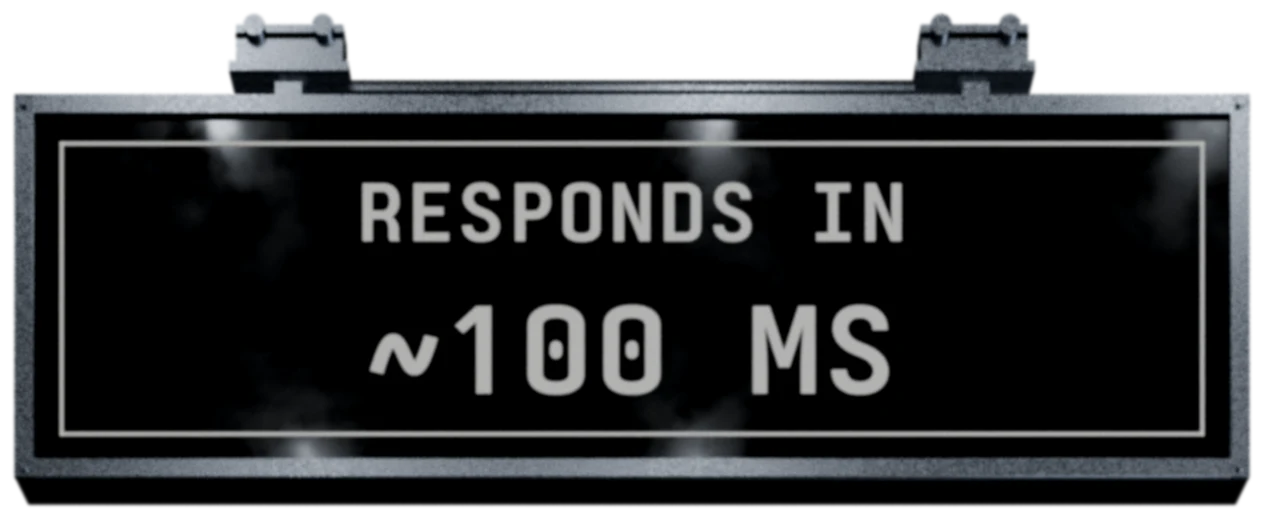
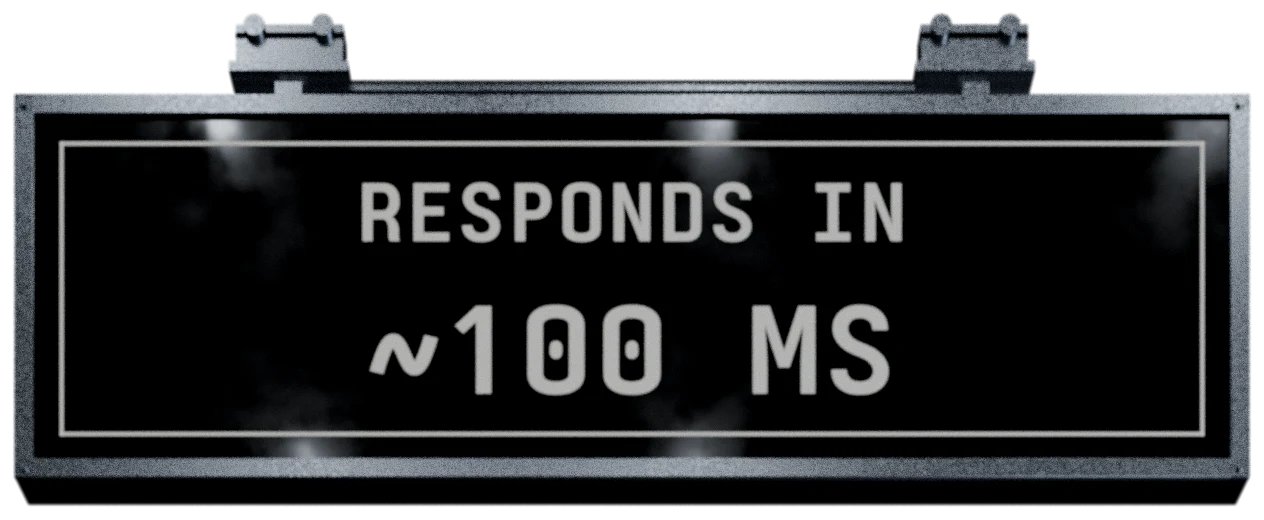
Homepage factory: the crisp render set, and readable tags on the plinth's pipe labels
The render lead re-finished all 37 segments with the sharper "crisp" look
(web-layers/, same names, contract and segment.json; new posters; the
manifests gained each pipe's labelBox and visible: false). Ryan found the
stencilled pipe labels on the plinth (INBOX ... LOGS, dark grey on grey
concrete) hard to read, so the page now draws its own tag over each.

Bundled for first paint (byte for byte from web-layers/ unless noted):
- factory/manifest.json and phone/manifest.json: differ from the old ones
  only in the pipes' labelBox / visible.
- poster.jpg and phone/poster.jpg: steady's first frame, crisp.
- phone/poster-bare.jpg: rebuilt as before (steady's first bg and fg frames
  composited, no boards, quality 86). The same frames with the boards
  reproduce the delivered phone poster byte for byte, and the bare one is
  identical to it outside the board band (RMSE 0).
- phone/board0-2.webp (the still boards): re-cut from the crisp sprites
  with the old settings (magick -quality 88 reproduces the old files byte
  for byte from the old sprites).

Pipe tags (factory-home.tsx/.css):
- One per pipe whose labelBox is visible, in the frame's pixels like the
  button: from the box's left edge, centred on its row, at least as large
  as the box, mono capitals at 15 frame px with a 10 px floor. Flat paper
  white on the button's ink, 15.9:1, the same in both themes (it is part of
  the picture). aria-hidden: the stations under the hero carry the names.
[…]

Changed region(s): [[0.432, 0.1538, 0.6171, 0.1846]]

diff --git a/app/src/features/home/factory-home.tsx b/app/src/features/home/factory-home.tsx
@@ -19,7 +19,8 @@ import './factory-home.css'
 // The homepage: the factory, in a wide frame on a desktop and a tall one on a phone (index.tsx picks), from the very top
 // of the window: there is no header (the machine carries the name). A rendered hall with the sorting machine standing in it, the price on the
 // machine's front, and billboards with the free tier on them sliding slowly along a rail behind it (factory/player.ts).
-// The page writes only the button, on the blank plate the machine's front has for it. The first picture is the poster,
+// The page writes the button, on the blank plate the machine's front has for it, and a tag over each pipe's label on
+// the plinth (the render's stencils are too small and too grey to read). The first picture is the poster,
 // laid out by CSS alone before anything loads (factory-home.css), so nothing moves when the videos take over from it;
 // with reduced motion, without the renders' host (VITE_FACTORY_MEDIA), or where alpha video cannot play, the poster
 // is what is seen. The hall's pipes go down out of the picture; under it each place mail can go has a tube of its own,
@@ -57,6 +58,15 @@ function frameOf(m: Manifest, format: Format) {
   return { button, vars: { '--fac-w': m.width, '--fac-h': m.height, '--fac-safe-h': safeBottom - safeTop, '--fac-safe-w': 1120, '--fac-mid': (safeTop + safeBottom) / 2, '--fac-floor': floor, '--fac-label': label } as CSSProperties }
 }
 const FRAMES = { desktop: frameOf(MANIFESTS.desktop, 'desktop'), phone: frameOf(MANIFESTS.phone, 'phone') }
+
+// The pipes' labels: a tag over each stencil some crop shows whole (the manifest's `labelBox`; none where `visible` is
+// false), placed in the frame's pixels like the button and sized by factory-home.css: as large as the stencil, and
+// never smaller than readable type, so it can be larger. The frame's crop depends on the window's shape, so before
+// each paint (and as the stage's size changes) a tag whose stencil the stage cuts is left off, and one that would run
+// past the stage's edge is moved in along it, still over its stencil; one that would then cover the tag before it (on
+// the narrowest phones there is no room for both) is left off too.
+const tagsOf = (m: Manifest) => (m.pipes ?? []).flatMap(pipe => pipe.labelBox && pipe.visible !== false ? [{ label: pipe.label, box: pipe.labelBox }] : [])
+const TAGS = { desktop: tagsOf(MANIFESTS.desktop), phone: tagsOf(MANIFESTS.phone) }
 const POSTERS: Record<Format, string> = { desktop: desktopPoster, phone: phonePoster }
 
 // A phone's frame has room for one billboard at a time, so its poster shows one (3,000 sent). Where nothing plays (reduced
@@ -83,7 +93,7 @@ export function FactoryHome({ start, notice, format }: HomeProps & { format: For
   const visitor = start.signedIn ? null : start
   const dark = useTheme().theme === 'dark'
   const scene = useRef<HTMLElement>(null), probe = useRef<HTMLDivElement>(null), stage = useRef<HTMLDivElement>(null), frame = useRef<HTMLDivElement>(null)
-  const bg = useRef<HTMLDivElement>(null), boards = useRef<HTMLDivElement>(null), fg = useRef<HTMLDivElement>(null)
+  const bg = useRef<HTMLDivElement>(null), boards = useRef<HTMLDivElement>(null), fg = useRef<HTMLDivElement>(null), tags = useRef<HTMLDivElement>(null)
   // The places mail can go under the hero are laid out as the sorter's page would lay them out for this window (sorter/plan.ts).
   const [p, setP] = useState<Plan | null>(null)
   useLayoutEffect(() => {
@@ -94,6 +104,32 @@ export function FactoryHome({ start, notice, format }: HomeProps & { format: For
     measure()
     const observer = new ResizeObserver(measure)
     observer.observe(scene.current!); observer.observe(probe.current!)
+    return () => observer.disconnect()
+  }, [])
+
+  useLayoutEffect(() => {
+    const layer = tags.current!, area = stage.current!
+    const place = () => {
+      const s = area.getBoundingClientRect(), f = frame.current!.getBoundingClientRect(), k = f.width / m.width
+      let edge = -Infinity
+      TAGS[format].forEach(({ box }, i) => {
+        const tag = layer.children[i] as HTMLElement
+        tag.style.removeProperty('--fac-tag-dx'); tag.style.removeProperty('--fac-tag-dy')
+        // (The stencil is the box less the 3 frame px it has to spare all round.)
+        const whole = f.left + (box.x + 3) * k >= s.left - .5 && f.left + (box.x + box.w - 3) * k <= s.right + .5 && f.top + (box.y + 3) * k >= s.top - .5 && f.top + (box.y + box.h - 3) * k <= s.bottom + .5
+        const t = tag.getBoundingClientRect(), dx = Math.max(0, s.left - t.left) + Math.min(0, s.right - t.right), dy = Math.max(0, s.top - t.top) + Math.min(0, s.bottom - t.bottom)
+        const off = !whole || t.left + dx < edge + 2
+        tag.toggleAttribute('data-off', off)
+        if (off) return
+        edge = t.right + dx
+        if (dx) tag.style.setProperty('--fac-tag-dx', `${dx}px`)
+        if (dy) tag.style.setProperty('--fac-tag-dy', `${dy}px`)
+      })
+    }
+    place()
+    // (Each tag is watched too: its width changes when the mono web font takes over from its fallback.)
+    const observer = new ResizeObserver(place)
+    observer.observe(area); for (const tag of layer.children) observer.observe(tag)
     return () => observer.disconnect()
   }, [])
 
@@ -113,7 +149,7 @@ export function FactoryHome({ start, notice, format }: HomeProps & { format: For
       // (A desktop takes the smaller files, 1280 wide, where the frame is shown no wider than that has pixels for; a
       // phone the 1080 × 1920 ones, and the 720 × 1280 ones where it is saving data or on 3G or slower.)
       const height = format === 'phone' ? slow() ? 720 : 1080 : frame.current!.getBoundingClientRect().width * devicePixelRatio > 1280 ? 1080 : 720
-      player = mountPlayer({ stage: stage.current!, bg: bg.current!, boards: boards.current!, fg: fg.current! }, { ...set, format: codec, height, failed: fail })
+      player = mountPlayer({ stage: stage.current!, bg: bg.current!, boards: boards.current!, fg: fg.current!, tags: tags.current! }, { ...set, format: codec, height, failed: fail })
       observer.observe(stage.current!)
       document.addEventListener('visibilitychange', update)
     })
@@ -135,6 +171,8 @@ export function FactoryHome({ start, notice, format }: HomeProps & { format: For
             <div className="fac-layer" ref={bg} />
             <div className="fac-layer fac-boards" ref={boards} />
             <div className="fac-layer" ref={fg} />
+            <div className="fac-layer" ref={tags} aria-hidden="true">{TAGS[format].map(({ label, box }) =>
+              <span key={label} className="fac-tag" style={{ left: pct(box.x, m.width), top: pct(box.y + box.h / 2, m.height), '--fac-tag-w': box.w, '--fac-tag-h': box.h } as CSSProperties}><span>{label}</span></span>)}</div>
             <StartButton start={start} className="fac-cta" style={buttonBox} />
           </div>
         </div>

diff --git a/app/src/features/home/factory/player.ts b/app/src/features/home/factory/player.ts
@@ -4,7 +4,8 @@
 // waiting for data holds both. A segment plays to its end and the next starts as it ends; every segment starts and
 // ends on the poster's picture, so the cut is not seen. The next segment's two videos load in a second pair of
 // elements while this one plays; one that will play again straight away loops instead. The boards keep their own,
-// slower time and move on the compositor. Nothing here makes a sound.
+// slower time and move on the compositor. Where the hall dims the boards dim with it, and where the plinth does the
+// page's tags on its labels. Nothing here makes a sound.
 import type { Manifest, Segment } from './manifest'
 
 export type AlphaFormat = 'hevc' | 'webm'
@@ -46,7 +47,7 @@ export function schedule(segments: Segment[], random = Math.random) {
 
 type Deck = { bg: HTMLVideoElement; fg: HTMLVideoElement; segment: Segment | null; ready: boolean; loading: AbortController | null }
 export type Player = { setShown(shown: boolean): void; destroy(): void }
-export type Layers = { stage: HTMLElement; bg: HTMLElement; boards: HTMLElement; fg: HTMLElement }
+export type Layers = { stage: HTMLElement; bg: HTMLElement; boards: HTMLElement; fg: HTMLElement; tags?: HTMLElement }
 
 /** Starts the factory in `layers` once the first segment and the boards can play; until then (and for good, where
  *  they cannot: `failed` is called) the page's poster is what is seen. `base` is where the renders are, ending in a
@@ -66,7 +67,9 @@ export function mountPlayer(layers: Layers, { base, manifest: m, format, height,
   }
   const decks: Deck[] = [0, 1].map(() => ({ bg: video(layers.bg), fg: video(layers.fg), segment: null, ready: false, loading: null }))
   const both = (deck: Deck) => [deck.bg, deck.fg]
-  let active = 0, upcoming: Segment | null = null, started = false, shown = true, destroyed = false, swapping = false, raf = 0, last = 0, light = 1
+  let active = 0, upcoming: Segment | null = null, started = false, shown = true, destroyed = false, swapping = false, raf = 0, last = 0, light = 1, labelLight = 1
+  // A layer lit `level` (1 is as lit as ever), set only when it changes.
+  const dim = (layer: HTMLElement | undefined, level: number, was: number) => { if (layer && level !== was) layer.style.filter = level === 1 ? '' : `brightness(${level})`; return level }
 
   // The boards: each a sprite on a rail as wide as the frame, slid by the rail's transform from just off the frame's
   // left edge across it and off its right (`gapPx` times the number of boards in all), the next one `gapPx` behind.
@@ -184,9 +187,10 @@ export function mountPlayer(layers: Layers, { base, manifest: m, format, height,
     raf = requestAnimationFrame(tick)
     if (!started || !shown || swapping) return
     const deck = decks[active], { bg, fg } = deck, end = deck.segment!.frames / m.fps
-    // Where the hall dims, the boards dim with it, frame by frame.
-    const lights = deck.segment!.boardLight, level = lights ? lights[Math.min(lights.length - 1, Math.floor(bg.currentTime * m.fps))] ?? 1 : 1
-    if (level !== light) { light = level; layers.boards.style.filter = level === 1 ? '' : `brightness(${level})` }
+    // Where the hall dims, the boards dim with it, and where the plinth dims, the tags on its labels: frame by frame.
+    const at = (lights: number[] | undefined) => lights ? lights[Math.min(lights.length - 1, Math.floor(bg.currentTime * m.fps))] ?? 1 : 1
+    light = dim(layers.boards, at(deck.segment!.boardLight), light)
+    labelLight = dim(layers.tags, at(deck.segment!.labelLight), labelLight)
     if (bg.loop) {
       // Round again: the next time through has begun.
       if (bg.currentTime < last - end / 2) plan()
@@ -243,6 +247,7 @@ export function mountPlayer(layers: Layers, { base, manifest: m, format, height,
       for (const deck of decks) { deck.loading?.abort(); for (const v of both(deck)) { v.pause(); v.removeAttribute('src'); v.load(); v.remove() } }
       for (const board of boards) { board.motion?.cancel(); board.rail.remove() }
       layers.boards.style.filter = ''
+      if (layers.tags) layers.tags.style.filter = ''
       layers.stage.removeAttribute('data-playing'); layers.stage.removeAttribute('data-live')
     },
   }

diff --git a/app/src/features/home/factory/manifest.ts b/app/src/features/home/factory/manifest.ts
@@ -4,26 +4,31 @@
 // poster is. `loop` segments make up the page's ordinary running, `rare` ones are the occasional event; a segment
 // with `then` is always followed by that one, which has `after` and never plays alone (burst, then rebuild: one
 // event). `bg` and `fg` name the segment whose files a layer is (rush's hall is steady's, convoy's machine is
-// steady's). `boardLight`, where the hall dims, is the billboards' brightness frame by frame (1 is as lit as ever).
+// steady's). `boardLight`, where the hall dims, is the billboards' brightness frame by frame (1 is as lit as ever);
+// `labelLight`, where the plinth dims, the same for the labels stencilled on it (measured from the segment's own
+// foreground when the set is published: app/scripts/factory-media.mjs).
 // The billboards are sprites at twice the frame's resolution that the page moves along their rail at
 // `speedPxPerSec`, `gapPx` apart, each at its `y` (its top edge: the hanger on the rail, over the board's face) and
 // `w` × `h` where the manifest says (else half its sprite's size); `button` is the blank plate on the machine's front
 // that the page writes its button on; `pipes` are the plinth's pipes the section under the hero carries on (on a
-// phone two are `offFrame`, just outside the picture's sides, and three `hidden` behind the button's console).
+// phone two are `offFrame`, just outside the picture's sides, and three `hidden` behind the button's console). Each
+// pipe's label is stencilled on the plinth beside it, inside its `labelBox`; `visible: false` where no crop shows the
+// stencil whole (the frame's edge, or the button's console, is in front of it).
 // There are two formats: a desktop's 1920 × 1080 frame and a phone's 1080 × 1920 (a camera and a front of its own).
 import desktop from './manifest.json'
 import phone from './phone/manifest.json'
 
 export type Format = 'desktop' | 'phone'
-export type Segment = { name: string; kind: 'loop' | 'rare'; frames: number; bg?: string; fg?: string; then?: string; after?: string; boardLight?: number[] }
+export type Segment = { name: string; kind: 'loop' | 'rare'; frames: number; bg?: string; fg?: string; then?: string; after?: string; boardLight?: number[]; labelLight?: number[] }
 export type Box = { x: number; y: number; w: number; h: number }
-export type Pipe = { label: string; x: number; w: number; yEnd: number; hidden?: boolean; offFrame?: boolean }
+export type Pipe = { label: string; x: number; w: number; yEnd: number; hidden?: boolean; offFrame?: boolean; labelBox?: Box; visible?: boolean }
 export type Manifest = {
   fps: number; loopFrames: number; width: number; height: number
   boards: { speedPxPerSec: number; gapPx: number; y: number[]; w?: number[]; h?: number[]; files?: string[]; periodPx?: number }
   button: Box
   segments: Segment[]
-  /** The plinth's labelled pipes, left to right: each one's centre and width, and the row where it goes into the floor. */
+  /** The plinth's labelled pipes, left to right: each one's centre and width, the row where it goes into the floor, and
+   *  where its label is stencilled. */
   pipes?: Pipe[]
 }
 

diff --git a/app/src/features/home/factory-home.css b/app/src/features/home/factory-home.css
@@ -40,6 +40,14 @@
 .fac-still img { position: absolute; height: auto; opacity: 0; transition: opacity 300ms var(--srt-ease); }
 .fac-still img[data-on] { opacity: 1; }
 .fac-board { position: absolute; left: 0; height: auto; }
+/* A pipe's tag (factory-home.tsx): flat, the page's mono capitals in paper white on the button's ink, over the stencil
+   its box frames (`--fac-tag-w` × `--fac-tag-h` frame px), from the box's left edge and centred on its row, and moved
+   in where it would run past the stage's edge (`data-off`: left off where it cannot be shown whole). As large as the
+   stencil, never under 10 px type. The same in either theme: it is part of the picture, and dims with the plinth
+   (factory/player.ts). */
+.fac-tag { position: absolute; display: grid; place-items: center; box-sizing: border-box; min-width: calc(100cqw * var(--fac-tag-w) / var(--fac-w)); min-height: calc(100cqw * var(--fac-tag-h) / var(--fac-w)); padding: .42em .42em .42em .46em; border-radius: 2px; background: oklch(0.2 0.02 268); color: oklch(0.955 0.014 92); font-family: var(--font-mono); font-size: max(10px, 100cqw * 15 / var(--fac-w)); line-height: 1; letter-spacing: .04em; white-space: nowrap; translate: var(--fac-tag-dx, 0px) calc(-50% + var(--fac-tag-dy, 0px)); user-select: none; }
+.fac-tag > span { display: block; text-box: trim-both cap alphabetic; }
+.fac-tag[data-off] { visibility: hidden; }
 
 /* The button: the page's words on the machine's blank plate. Pointed at, the plate is lit brighter; pressed, it dims
    and the words go in with it. */
